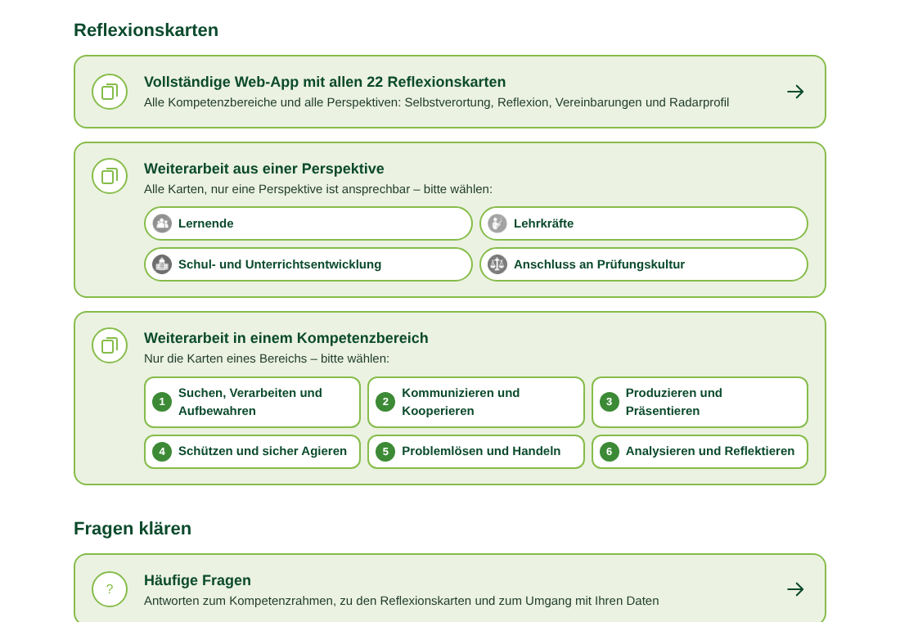
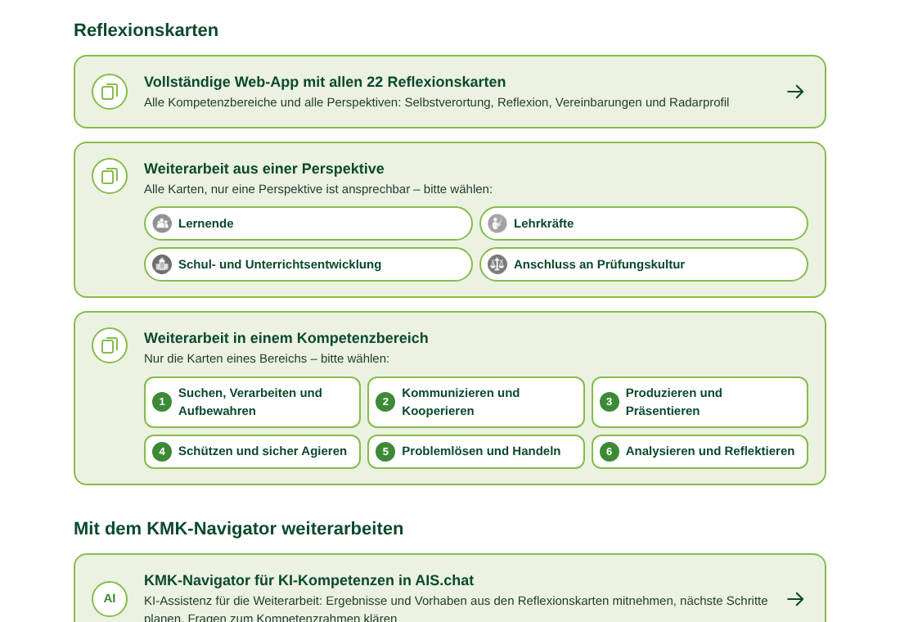
KMK-Navigator als Instrument der Weiterarbeit; Anleitung Schritt 2/3 neu betitelt; Infomenü hellgrün abgesetzt
Claude-Session: https://claude.ai/code/session_012zyzsmAj4NRycghpwKmJHP

Changed region(s): [[0.0933, 0.9164, 0.9022, 1.0], [0.0622, 0.8248, 0.4667, 0.8859]]

diff --git a/material.html b/material.html
@@ -42,10 +42,14 @@
   </li>
 </ul>
 
-<h2 class="abschnitt">Fragen klären</h2>
+<h2 class="abschnitt">Mit dem KMK-Navigator weiterarbeiten</h2>
+<ul class="kachel-liste">
+  <li><a class="kachel" href="https://app.ais-chat.schule/assistants/6ca7162c-3984-4c9b-b7db-ca52c3672172" target="_blank" rel="noopener noreferrer"><span class="kreis ais">AI</span><span><strong>KMK-Navigator für KI-Kompetenzen in AIS.chat</strong><span class="zusatz">KI-Assistenz für die Weiterarbeit: Ergebnisse und Vorhaben aus den Reflexionskarten mitnehmen, nächste Schritte planen, Fragen zum Kompetenzrahmen klären</span></span><svg class="pfeil" viewBox="0 0 32 32" aria-hidden="true"><path d="M4 16h22M17 7l9 9-9 9" fill="none" stroke="currentColor" stroke-width="2.6" stroke-linecap="round" stroke-linejoin="round"/></svg></a></li>
+</ul>
+
+<h2 class="abschnitt">Häufige Fragen</h2>
 <ul class="kachel-liste">
   <li><a class="kachel" href="faq.html"><span class="kreis" aria-hidden="true">?</span><span><strong>Häufige Fragen</strong><span class="zusatz">Antworten zum Kompetenzrahmen, zu den Reflexionskarten und zum Umgang mit Ihren Daten</span></span><svg class="pfeil" viewBox="0 0 32 32" aria-hidden="true"><path d="M4 16h22M17 7l9 9-9 9" fill="none" stroke="currentColor" stroke-width="2.6" stroke-linecap="round" stroke-linejoin="round"/></svg></a></li>
-  <li><a class="kachel" href="https://app.ais-chat.schule/assistants/6ca7162c-3984-4c9b-b7db-ca52c3672172" target="_blank" rel="noopener noreferrer"><span class="kreis ais">AI</span><span><strong>Ihre Frage ist nicht dabei? KMK-Navigator für KI-Kompetenzen in AIS.chat</strong><span class="zusatz">KI-Assistenz für weitere Fragen und zur Planung nächster Schritte – Ergebnisse aus den Reflexionskarten lassen sich dorthin mitnehmen</span></span><svg class="pfeil" viewBox="0 0 32 32" aria-hidden="true"><path d="M4 16h22M17 7l9 9-9 9" fill="none" stroke="currentColor" stroke-width="2.6" stroke-linecap="round" stroke-linejoin="round"/></svg></a></li>
 </ul>
 </main>
 <footer class="seitenfuss">

diff --git a/anleitung.html b/anleitung.html
@@ -47,11 +47,11 @@
   </li>
   <li class="schritt">
     <img src="bilder/schritt-route.png" alt="" loading="lazy">
-    <div><span class="schritt-nr">2</span><h2>Über eine Route durch alle Bereiche</h2><p>Unten rechts wählen Sie eine Perspektive: Lernende, Lehrkräfte, Schul- und Unterrichtsentwicklung oder Anschluss an Prüfungskultur. Die Wege färben sich, „Route starten“ öffnet alle Reflexionskarten aus genau dieser Perspektive.</p></div>
+    <div><span class="schritt-nr">2</span><h2>Aus einer Perspektive durch alle Kompetenzbereiche</h2><p>Unten rechts wählen Sie eine Perspektive: Lernende, Lehrkräfte, Schul- und Unterrichtsentwicklung oder Anschluss an Prüfungskultur. Die Wege färben sich, „Route starten“ öffnet alle Reflexionskarten aus genau dieser Perspektive.</p></div>
   </li>
   <li class="schritt">
     <img src="bilder/schritt-mitte.png" alt="" loading="lazy">
-    <div><span class="schritt-nr">3</span><h2>In der Mitte: Rahmen, Anwendungen und Fragen</h2><p>„Aktualisierung 2026 – Unterstützungsmaterial“ bündelt den Kompetenzrahmen als PDF, alle Reflexionskarten-Anwendungen und die häufigen Fragen. Weitere Fragen beantwortet der KMK-Navigator in AIS.chat.</p></div>
+    <div><span class="schritt-nr">3</span><h2>In der Mitte: Kompetenzrahmen, Reflexionskarten und KMK-Navigator</h2><p>„Aktualisierung 2026 – Unterstützungsmaterial“ bündelt alles für die Weiterarbeit: den Kompetenzrahmen als PDF, die Reflexionskarten in allen Anwendungen und den KMK-Navigator für KI-Kompetenzen. Mit dieser KI-Assistenz in AIS.chat planen Sie auf Grundlage Ihrer Ergebnisse aus den Reflexionskarten die nächsten Schritte.</p></div>
   </li>
 </ol>
 </main>

diff --git a/style.css b/style.css
@@ -364,18 +364,19 @@ h2.abschnitt { color: var(--gruen-dunkel); font-size: 22px; margin: 36px 0 14px;
   position: absolute; right: 0; top: 100%;
   margin: calc(8 * var(--u)) 0 0; padding: calc(8 * var(--u));
   list-style: none;
-  width: calc(400 * var(--u)); min-width: 230px;
-  background: var(--weiss);
-  border: 2px solid var(--gruen-rand);
+  width: calc(460 * var(--u)); min-width: 260px;
+  background: var(--gruen-hell);
+  border: 2px solid var(--gruen-mittel);
   border-radius: 14px;
-  box-shadow: 0 10px 28px rgba(11, 74, 44, .18);
+  box-shadow: 0 12px 32px rgba(11, 74, 44, .28);
 }
 .info-liste a {
   display: block; padding: 10px 14px; border-radius: 10px;
   font-weight: 700; font-size: max(14px, calc(21 * var(--u)));
   text-decoration: none; color: var(--gruen-dunkel);
 }
-.info-liste a:hover, .info-liste a:focus-visible { background: var(--gruen-hell); }
+.info-liste a:hover, .info-liste a:focus-visible { background: var(--weiss); }
+.info-liste li + li { border-top: 1px solid #cfe1b8; }
 
 /* Reiter auf den Informationsseiten */
 .reiter { margin: -12px 0 28px; }
